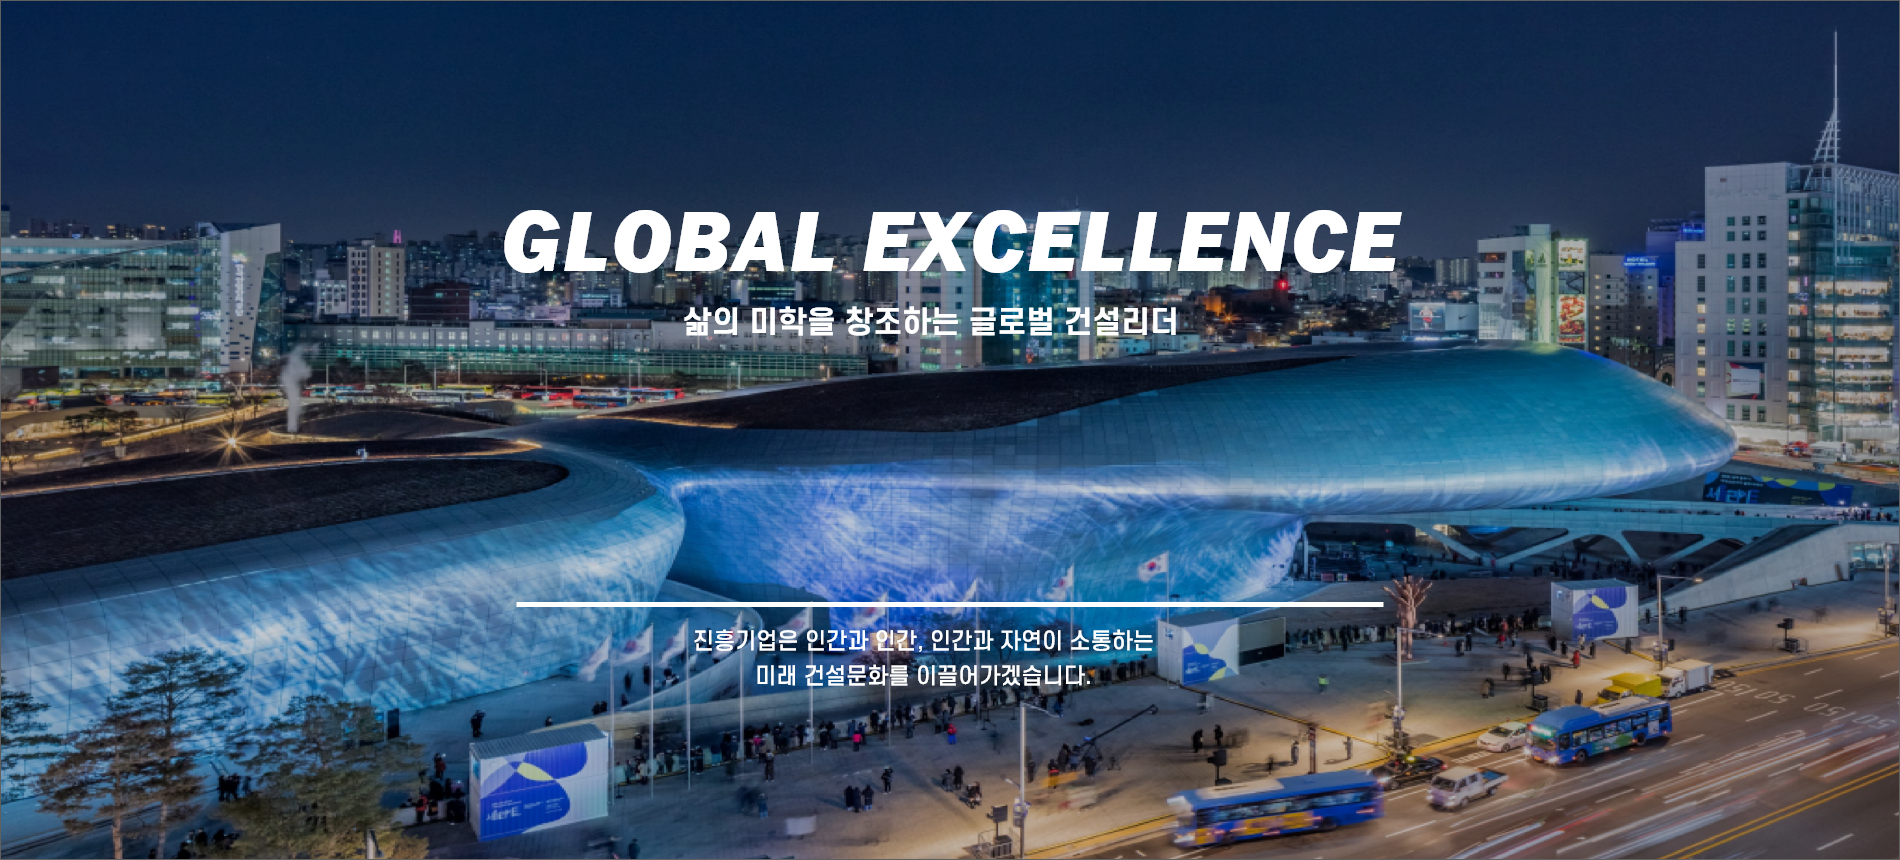
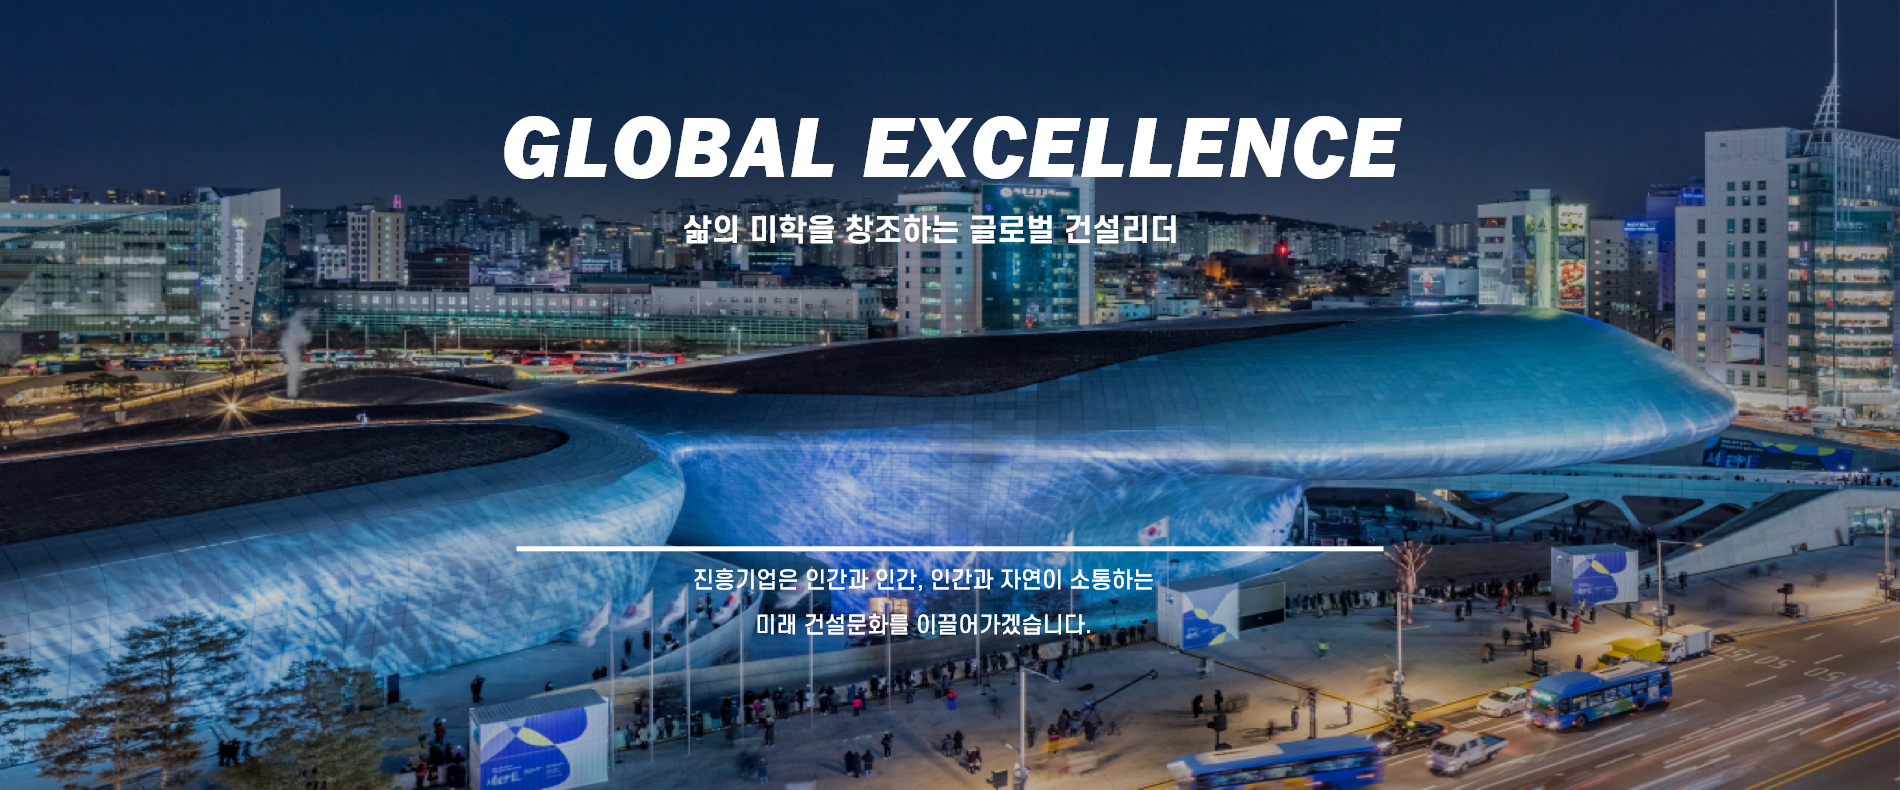
09-28 작업마무리

diff --git a/jh_builder/css/main.css b/jh_builder/css/main.css
@@ -28,7 +28,15 @@
 
 /* 공통부분 */
 
-/* 색깔 # 1A53A4 #434343 */
+/* 
+
+색깔 # 
+
+파란색 1A53A4 
+
+흑색 #434343 
+
+*/
 
 * {}
 
@@ -52,18 +60,22 @@
   position: relative;
 }
 
+a {
+  text-decoration: none;
+  color: #434343;
+}
+
 /* 헤더 시작 */
 
 header {
-  height: 135px;
+  height: 100px;
   display: flex;
   justify-content: center;
   align-items: center;
   position: relative;
 }
 
-header .header_nav {
-}
+header .header_nav {}
 
 header .header_nav ul {
   position: absolute;
@@ -74,7 +86,7 @@ header .header_nav ul li {
   display: inline-block;
   margin-left: 60px;
   position: relative;
-  
+
 }
 
 header .header_nav ul li:not(:last-child):after {
@@ -86,7 +98,7 @@ header .header_nav ul li:not(:last-child):after {
   background-color: gray;
   left: 87px;
   top: 1px;
-  
+
 }
 
 header .header_nav ul a {
@@ -94,3 +106,106 @@ header .header_nav ul a {
   color: #434343;
 }
 
+/* 헤더 끝 */
+
+
+/* 네비 시작 */
+
+nav {
+  display: flex;
+  justify-content: center;
+  align-items: center;
+  height: 70px;
+  background-color: #1A53A4;
+  position: relative;
+}
+
+nav ul {}
+
+nav ul li {
+  display: inline-block;
+  margin-left: 118px;
+  position: relative;
+}
+
+nav ul li:first-child {
+  margin-left: 0;
+}
+
+
+nav ul li a {
+  font-family: 'S-CoreDream-5Medium';
+  font-size: 18px;
+  color: white;
+}
+
+ nav ul li:not(:last-child):after {
+  position: absolute;
+  content: "";
+  display: block;
+  width: 2px;
+  height: 16px;
+  background-color: white;
+  left: 130px;
+  top: 1px;
+}
+
+.nav_search {
+  position: absolute;
+  display: flex;
+  justify-content: flex-end;
+  right: 40px;
+}
+
+.nav_search img {
+  margin-left: 20px;
+}
+
+
+nav input {
+  width: 240px;
+  border-radius: 5px;
+  border-style: none;
+}
+
+
+
+/* 네비 끝 */
+
+/* 메인 시작 */
+
+.main {
+  position: relative;
+}
+
+.main .gline {
+  position: absolute;
+  bottom:-29px;
+}
+
+/* 메인 비디오 자리 */
+
+.main .video {
+  position: absolute;
+  left: 50%;
+  display: flex;
+  width: 750px;
+  justify-content: space-between;
+}
+
+.main .video .video_left {
+  width: 350px;
+  height: 200px;
+  background-color: tomato;
+
+}
+
+.main .video .video_right {
+  width: 350px;
+  height: 200px;
+  background-color: red;
+
+}
+
+
+/* 메인 끝 */

diff --git a/jh_builder/index.html b/jh_builder/index.html
@@ -9,6 +9,8 @@
   <title>진흥건설</title>
 </head>
 <body>
+ 
+ 
   <!-- 헤더시작 -->
   <header class="inner">
     <div class="logo">
@@ -16,6 +18,7 @@
         <img src="./images/header_logo.png" alt="">
       </a>
     </div>
+    <!-- 헤더 안 작은 네비 -->
     <div class="header_nav">
       <ul>
         <li><a href="">HOME</a></li>
@@ -23,5 +26,48 @@
       </ul>
     </div>
   </header>
+  <!-- 헤더 끝 -->
+  
+  
+  <!-- 네비 시작 -->
+  <nav class="wrap"> 
+    <ul>
+      <li><a href="">사업분야</a></li>
+      <li><a href="">홍보센터</a></li>
+      <li><a href="">인재채용</a></li>
+      <li><a href="">고객센터</a></li>
+      <li><a href="">사이버감사실</a></li>
+    </ul>
+    <div class="nav_search">
+      <input type="text" placeholder=" &nbsp; 검색어를 입력하세요.">
+      <img src="./images/nav_search_icon.png" alt="">
+    </div>
+    
+  </nav>
+  <!-- 네비끝 -->
+
+
+  <!-- 메인 시작 -->
+  
+  <div class="main wrap">
+
+    <div class="video">
+      <div class="video_left">
+
+      </div>
+      <div class="video_right">
+          
+      </div>
+    </div>
+
+    <img src="./images/main_image.png" alt="">
+    <div class="gline"></div>
+
+  </div>
+
+  <!-- 메인 끝 -->
+
+
+
 </body>
 </html>
